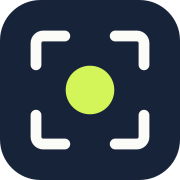
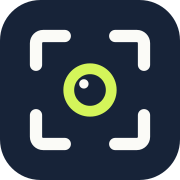
Marca C: ponto vira lente (aro tinta, vidro limão, reflexo) e foco animado ao abrir
Claude-Session: https://claude.ai/code/session_017zB9tviE1dHQkjvgfcz5We

diff --git a/index.html b/index.html
@@ -27,7 +27,11 @@ mark{color:inherit;padding:0 .1em;margin:0 -.05em;border-radius:.15em;white-spac
 /* header */
 header{display:flex;align-items:center;justify-content:space-between;padding:22px 0}
 .who{display:flex;align-items:center;gap:12px;white-space:nowrap}
-.who svg.mk{flex:none;width:36px;height:36px;display:block}
+.who svg.mk{flex:none;width:36px;height:36px;display:block;overflow:visible}
+.mk-c,.mk-l{transform-origin:20px 20px;transform-box:view-box}
+@media (prefers-reduced-motion:no-preference){.mk-c{animation:mkFocus 1s cubic-bezier(.3,1.4,.5,1) .25s both}.mk-l{animation:mkLens .5s ease-out .95s both}}
+@keyframes mkFocus{0%{transform:scale(1.28);opacity:.2}60%{transform:scale(.96);opacity:1}100%{transform:scale(1)}}
+@keyframes mkLens{0%{transform:scale(.4)}70%{transform:scale(1.12)}100%{transform:scale(1)}}
 .who .nm{display:flex;flex-direction:column;line-height:1.1}
 .who b{font:600 22px/1 var(--sans);letter-spacing:-.035em}
 .who b em{font-style:normal;color:#1B4E66}
@@ -197,7 +201,7 @@ footer p+p{margin-top:6px}
 <body>
 <div class="wrap">
   <header>
-    <div class="who"><svg class="mk" viewBox="0 0 40 40" aria-hidden="true"><g fill="none" stroke="#172338" stroke-width="3.4" stroke-linecap="round"><path d="M5 13V7a2 2 0 0 1 2-2h6M27 5h6a2 2 0 0 1 2 2v6M35 27v6a2 2 0 0 1-2 2h-6M13 35H7a2 2 0 0 1-2-2v-6"/></g><circle cx="20" cy="20" r="6.5" fill="#D4F55A"/></svg><div class="nm"><b>levy<em>tikus</em></b><span data-t="role">Video abstracts</span></div></div>
+    <div class="who"><svg class="mk" viewBox="0 0 40 40" aria-hidden="true"><path class="mk-c" d="M5 13V7a2 2 0 0 1 2-2h6M27 5h6a2 2 0 0 1 2 2v6M35 27v6a2 2 0 0 1-2 2h-6M13 35H7a2 2 0 0 1-2-2v-6" fill="none" stroke="#172338" stroke-width="3.4" stroke-linecap="round"/><g class="mk-l"><circle cx="20" cy="20" r="7.4" fill="#172338"/><circle cx="20" cy="20" r="4.4" fill="#D4F55A"/><circle cx="18.3" cy="18.3" r="1.3" fill="#FBFBF7"/></g></svg><div class="nm"><b>levy<em>tikus</em></b><span data-t="role">Video abstracts</span></div></div>
     <div class="lang" id="lang">
       <button type="button" id="langBtn" aria-haspopup="true" aria-expanded="false" aria-label="Language"><span id="langFlag"><svg class="fl" viewBox="0 0 30 20" aria-hidden="true"><rect width="30" height="20" fill="#fff"/><g fill="#B22234"><rect y="0" width="30" height="1.54"/><rect y="3.08" width="30" height="1.54"/><rect y="6.15" width="30" height="1.54"/><rect y="9.23" width="30" height="1.54"/><rect y="12.3" width="30" height="1.54"/><rect y="15.4" width="30" height="1.54"/><rect y="18.46" width="30" height="1.54"/></g><rect width="12" height="10.77" fill="#3C3B6E"/></svg></span><span id="langCode">EN</span><svg class="chev" viewBox="0 0 10 10" aria-hidden="true"><path d="M1.5 3.5 5 7l3.5-3.5" stroke="currentColor" stroke-width="1.6" fill="none" stroke-linecap="round"/></svg></button>
       <ul role="menu">
